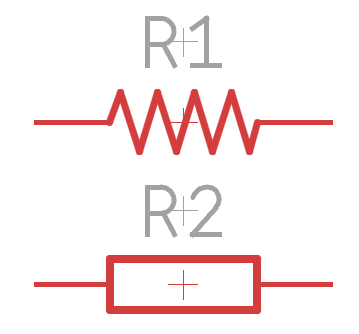
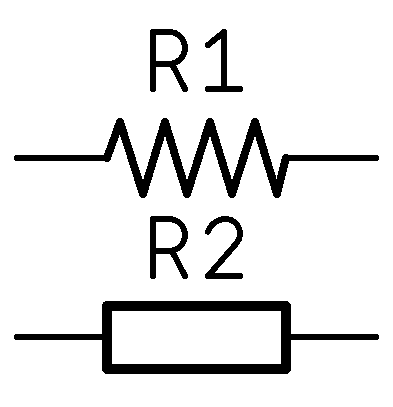
Updated drawings using export from Fusion360

Changed region(s): [[0.0306, 0.2695, 0.9805, 0.9581], [0.3677, 0.0299, 0.6128, 0.2395]]

diff --git a/docs/electronics/passive-resistor.md b/docs/electronics/passive-resistor.md
@@ -358,6 +358,9 @@ R &= {{5 - 2.1}\over{0.02}}\\[5pt]
 &= 145
 \end{aligned}$$
 
+![Schematic showing a current limiting
+resistor](../img/schematic-resistor-led.png){: width=250 align=right }
+
 So we need a resistor of 145&ohm;. Now, that's not a common value, but
 [we can get 150](#e-series-of-preferred-values), and so we can just use
 that. We could also slightly overdrive it with a 130&ohm;. Close enough!
@@ -369,6 +372,9 @@ I &= {V\over R}\\[5pt]
 &= {{5 - 2.1}\over{150}}\\[5pt]
 &= 0.19\overline{3}
 \end{aligned}$$
+
+This gets us something like this:
+
 
 <!-- TODO: Write about LEDs in depth -->
 FUTURE: **More to Come** There's a lot more to driving LEDs than this,
